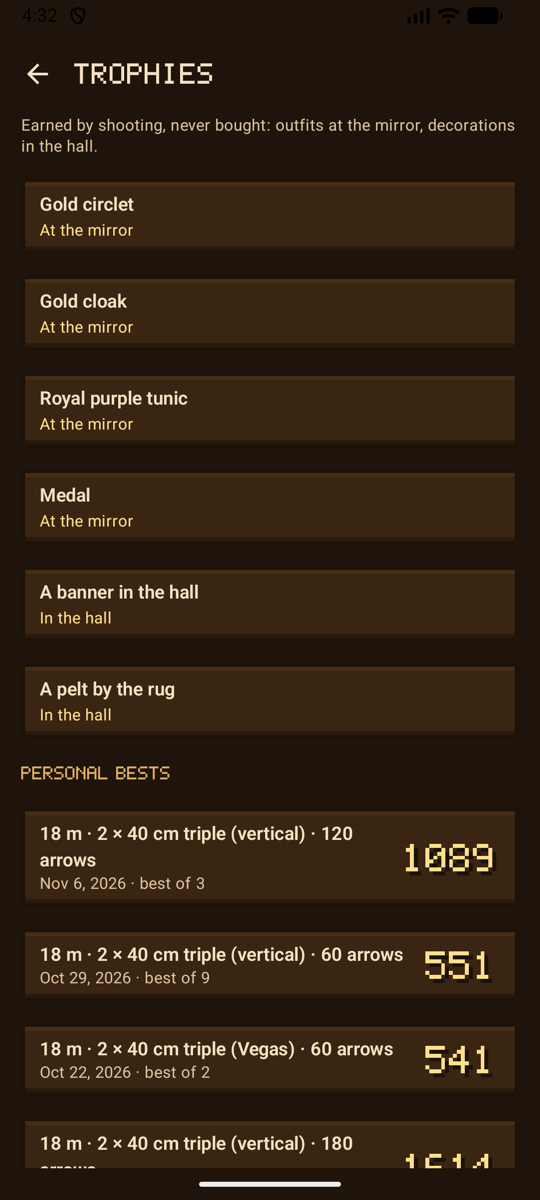
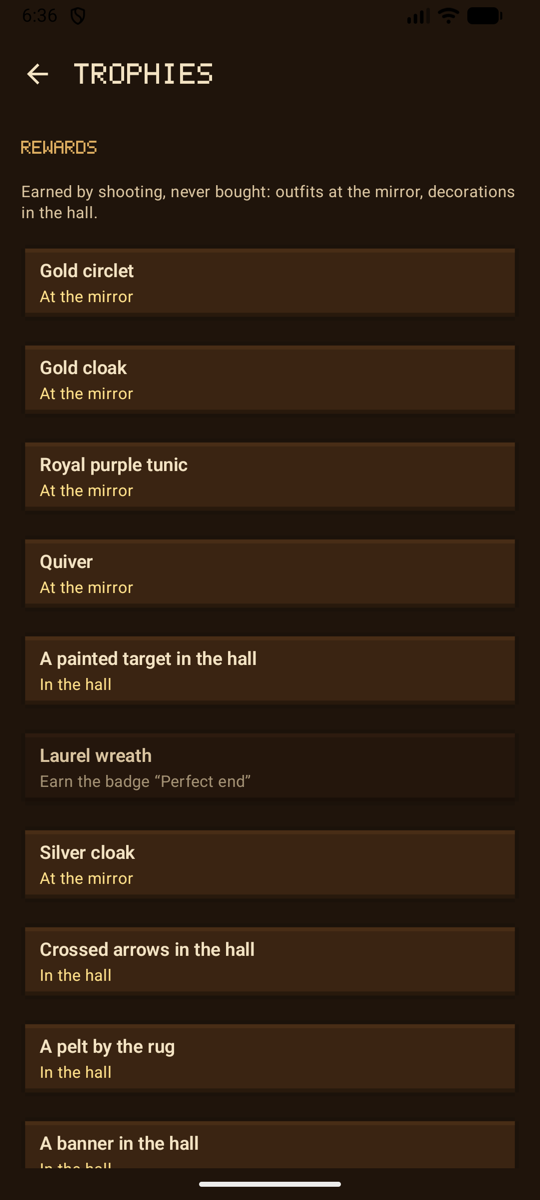
Update Ullr site from ullr@a8abf57

diff --git a/ullr/docs/game.fr.md b/ullr/docs/game.fr.md
@@ -53,7 +53,7 @@ Rendez-vous au **miroir** pour habiller votre archer. L’aperçu reste en haut 
 <figcaption><b>Le miroir.</b> Choisissez, et voyez le résultat tout de suite.</figcaption>
 </figure>
 <figure markdown>
-![Six archers vus de face, de profil et de dos : casque et barbe; toque et mantelet de fourrure; couronne de fleurs, tresses et écharpe; bandeau et amulette marteau; lunettes; et les tenues à gagner, diadème d’or, cape dorée, tunique pourpre royale et médaille.](images/game-outfits.png){ width="360" .pixel }
+![Huit archers vus de face, de profil et de dos : casque et barbe; toque et mantelet de fourrure; couronne de fleurs, tresses et écharpe; bandeau et amulette marteau; lunettes; et les tenues à gagner : diadème d’or avec tunique pourpre royale et médaille, couronne de laurier avec cape argentée, et chapeau à plume avec carquois.](images/game-outfits.png){ width="360" .pixel }
 <figcaption><b>Les tenues</b>, dessinées sous tous les angles.</figcaption>
 </figure>
 </div>
@@ -63,9 +63,9 @@ Rendez-vous au **miroir** pour habiller votre archer. L’aperçu reste en haut 
 | Peau | Cinq teintes |
 | Cheveux | Longs, courts, tresses ou capuchon, en cinq couleurs |
 | Barbe | Avec ou sans |
-| Tunique, cape, pantalon | Six, cinq et cinq couleurs, et pas de cape si vous préférez; une **tunique pourpre royale** (niveau 8) et une **cape dorée** (niveau 5) à gagner |
-| Coiffe | Casque, toque de fourrure, couronne de fleurs, bandeau; un **diadème d’or** à gagner (niveau 3) |
-| Accessoire | Mantelet de fourrure, écharpe, amulette marteau, lunettes; une **médaille** à gagner (insigne *Nouveau record*) |
+| Tunique, cape, pantalon | Six, cinq et cinq couleurs, et pas de cape si vous préférez; une **tunique pourpre royale** (niveau 8), une **cape dorée** (niveau 5) et une **cape argentée** (insigne *Dix X*) à gagner |
+| Coiffe | Casque, toque de fourrure, couronne de fleurs, bandeau; un **diadème d’or** (niveau 3), une **couronne de laurier** (insigne *Volée parfaite*) et un **chapeau à plume** (insigne *Explorateur*) à gagner |
+| Accessoire | Mantelet de fourrure, écharpe, amulette marteau, lunettes; un **carquois** (insigne *Première volée*) et une **médaille** (insigne *Nouveau record*) à gagner |
 
 ![Cinq archers de face, de profil et de dos, avec chaque coiffure (longs, courts, tresses, capuchon), cinq teintes de peau, des barbes et des couleurs de tunique et de cape différentes.](images/game-avatars.png){ width="330" .pixel }
 
@@ -77,9 +77,9 @@ Rendez-vous au **miroir** pour habiller votre archer. L’aperçu reste en haut 
 
 ## Les compagnons
 
-Choisissez un compagnon au miroir : un **chien**, un **chat**, un **renard**, ou un **corbeau** (et un autre à découvrir). Il suit le chemin parcouru par votre archer, environ un pas derrière, sans jamais traverser les meubles, et s’assoit à côté de vous quand vous vous arrêtez. Le chien, le chat et le renard trottinent et remuent la queue, et le corbeau sautille.
+Choisissez un compagnon au miroir : un **chien**, un **chat**, un **renard** ou un **corbeau**, un **hibou** une fois que vous avez tiré quatre semaines de suite, et un autre à découvrir. Il suit le chemin parcouru par votre archer, environ un pas derrière, sans jamais traverser les meubles, et s’assoit à côté de vous quand vous vous arrêtez. Le chien, le chat et le renard trottinent et remuent la queue, le corbeau sautille, et le hibou sautille et cligne de ses grands yeux.
 
-![Les quatre compagnons animaux : un chien, un chat, un renard et un corbeau.](images/game-companions.png){ width="420" .pixel }
+![Les compagnons animaux : un chien, un chat, un renard, un corbeau et un hibou.](images/game-companions.png){ width="420" .pixel }
 
 ## Niveaux, insignes et trophées
 
@@ -96,20 +96,20 @@ Seul le vrai tir rapporte : **10 points d’expérience** par volée confirmée,
 </figure>
 </div>
 
-- **Dix insignes** pour de vraies étapes, en or une fois gagnés, en gris d’ici là :
+- **Dix insignes** pour de vraies étapes, en or une fois gagnés, en gris d’ici là. Chacun rapporte aussi une [récompense](#recompenses) :
 
-| Médaille | Insigne | Comment l’obtenir |
-|:-:|--------|-------------------|
-| ![Médaille 1](images/game-medal-first-end.png){ width="36" .pixel } | **Première volée** | Confirmer votre première volée |
-| ![Médaille X](images/game-medal-first-x.png){ width="36" .pixel } | **Premier X** | Tirer un X |
-| ![Médaille 10](images/game-medal-perfect-end.png){ width="36" .pixel } | **Volée parfaite** | Toutes les flèches d’une volée dans le 10 |
-| ![Médaille XX](images/game-medal-ten-x.png){ width="36" .pixel } | **Dix X** | 10 X dans une même séance |
-| ![Médaille C](images/game-medal-arrows-100.png){ width="36" .pixel } | **100 flèches** | Tirer 100 flèches |
-| ![Médaille M](images/game-medal-arrows-1000.png){ width="36" .pixel } | **1 000 flèches** | Tirer 1 000 flèches (rapporte aussi la peau de bête dans la maison) |
-| ![Médaille S](images/game-medal-sessions-10.png){ width="36" .pixel } | **Dix séances** | Terminer 10 séances (rapporte aussi la bannière dans la maison) |
-| ![Médaille +](images/game-medal-personal-best.png){ width="36" .pixel } | **Nouveau record** | Battre votre meilleur score sur une épreuve (rapporte aussi la médaille au miroir) |
-| ![Médaille *](images/game-medal-new-discipline.png){ width="36" .pixel } | **Explorateur** | Tirer en campagne, en 3D ou en para-tir à l’arc |
-| ![Médaille 4](images/game-medal-weeks-4.png){ width="36" .pixel } | **Quatre semaines** | Tirer quatre semaines de suite |
+| Médaille | Insigne | Comment l’obtenir | Récompense |
+|:-:|--------|-------------------|------------|
+| ![Médaille 1](images/game-medal-first-end.png){ width="36" .pixel } | **Première volée** | Confirmer votre première volée | Carquois |
+| ![Médaille X](images/game-medal-first-x.png){ width="36" .pixel } | **Premier X** | Tirer un X | Cible peinte dans la maison |
+| ![Médaille 10](images/game-medal-perfect-end.png){ width="36" .pixel } | **Volée parfaite** | Toutes les flèches d’une volée dans le 10 | Couronne de laurier |
+| ![Médaille XX](images/game-medal-ten-x.png){ width="36" .pixel } | **Dix X** | 10 X dans une même séance | Cape argentée |
+| ![Médaille C](images/game-medal-arrows-100.png){ width="36" .pixel } | **100 flèches** | Tirer 100 flèches | Flèches croisées dans la maison |
+| ![Médaille M](images/game-medal-arrows-1000.png){ width="36" .pixel } | **1 000 flèches** | Tirer 1 000 flèches | Peau de bête près du tapis |
+| ![Médaille S](images/game-medal-sessions-10.png){ width="36" .pixel } | **Dix séances** | Terminer 10 séances | Bannière dans la maison |
+| ![Médaille +](images/game-medal-personal-best.png){ width="36" .pixel } | **Nouveau record** | Battre votre meilleur score sur une épreuve | Médaille |
+| ![Médaille *](images/game-medal-new-discipline.png){ width="36" .pixel } | **Explorateur** | Tirer en campagne, en 3D ou en para-tir à l’arc | Chapeau à plume |
+| ![Médaille 4](images/game-medal-weeks-4.png){ width="36" .pixel } | **Quatre semaines** | Tirer quatre semaines de suite | Hibou compagnon |
 
 ![Une médaille pas encore gagnée, en gris.](images/game-medal-locked.png){ width="36" .pixel } Une médaille pas encore gagnée reste grise. Le signe sur chaque médaille (chiffres, chiffres romains) se lit pareil en français et en anglais.
 
@@ -127,21 +127,28 @@ Ce que vous gagnez en tirant débloque des **récompenses**, listées au mur des
 | **Diadème d’or**, au miroir | Atteindre le niveau 3 |
 | **Cape dorée**, au miroir | Atteindre le niveau 5 |
 | **Tunique pourpre royale**, au miroir | Atteindre le niveau 8 |
-| **Médaille**, au miroir | Gagner l’insigne *Nouveau record* |
-| **Une bannière dans la maison**, sur le mur de gauche | Gagner l’insigne *Dix séances* |
+| **Carquois**, au miroir | Gagner l’insigne *Première volée* |
+| **Une cible peinte dans la maison**, sur le mur de gauche | Gagner l’insigne *Premier X* |
+| **Couronne de laurier**, au miroir | Gagner l’insigne *Volée parfaite* |
+| **Cape argentée**, au miroir | Gagner l’insigne *Dix X* |
+| **Des flèches croisées dans la maison**, au-dessus du miroir | Gagner l’insigne *100 flèches* |
 | **Une peau de bête près du tapis** | Gagner l’insigne *1 000 flèches* |
+| **Une bannière dans la maison**, sur le mur de gauche | Gagner l’insigne *Dix séances* |
+| **Médaille**, au miroir | Gagner l’insigne *Nouveau record* |
+| **Chapeau à plume**, au miroir | Gagner l’insigne *Explorateur* |
+| **Hibou**, un compagnon au miroir | Gagner l’insigne *Quatre semaines* |
 
 <div class="shots" markdown>
 <figure markdown>
-![La maison avec ses deux décorations : une bannière guède à cible dorée sur le mur de gauche, et une peau d’ours près du tapis.](images/screenshots/fr/game-hall-rewards.png){ .shot }
-<figcaption>La bannière et la peau de bête, gagnées.</figcaption>
+![La maison avec ses quatre décorations : une bannière guède et une cible peinte sur le mur de gauche, des flèches croisées au-dessus du miroir, et une peau d’ours près du tapis.](images/screenshots/fr/game-hall-rewards.png){ .shot }
+<figcaption>Toutes les décorations, gagnées.</figcaption>
 </figure>
 <figure markdown>
-![Les récompenses au mur des trophées : diadème d’or, cape dorée, tunique pourpre royale et médaille au miroir; une bannière et une peau de bête dans la maison.](images/screenshots/fr/game-rewards.png){ .shot }
+![Les récompenses au mur des trophées : diadème d’or, cape dorée, tunique pourpre royale, carquois, cible peinte, cape argentée, flèches croisées, peau de bête et bannière gagnés; la couronne de laurier encore à gagner, avec son insigne.](images/screenshots/fr/game-rewards.png){ .shot }
 <figcaption><b>Récompenses</b>, au mur des trophées.</figcaption>
 </figure>
 <figure markdown>
-![Au miroir, À gagner : diadème d’or au niveau 3, cape dorée au niveau 5, tunique pourpre royale au niveau 8, médaille avec l’insigne Nouveau record.](images/screenshots/fr/game-earn.png){ .shot }
+![Au miroir, À gagner : couronne de laurier avec l’insigne Volée parfaite, chapeau à plume avec l’insigne Explorateur.](images/screenshots/fr/game-earn.png){ .shot }
 <figcaption><b>À gagner</b>, au miroir.</figcaption>
 </figure>
 </div>

diff --git a/ullr/docs/game.md b/ullr/docs/game.md
@@ -53,7 +53,7 @@ Walk to the **mirror** to dress your archer. The preview stays at the top while 
 <figcaption><b>The mirror.</b> Pick, and see it at once.</figcaption>
 </figure>
 <figure markdown>
-![Six archers seen from the front, the side and the back: a helmet and beard; a fur hat and fur mantle; a flower crown with braids and a scarf; a headband with a hammer amulet; glasses; and the outfits to earn, gold circlet, gold cloak, royal purple tunic and medal.](images/game-outfits.png){ width="360" .pixel }
+![Eight archers seen from the front, the side and the back: a helmet and beard; a fur hat and fur mantle; a flower crown with braids and a scarf; a headband with a hammer amulet; glasses; and the outfits to earn: a gold circlet with a royal purple tunic and a medal, a laurel wreath with a silver cloak, and a feathered hat with a quiver.](images/game-outfits.png){ width="360" .pixel }
 <figcaption><b>Outfits</b>, drawn from every side.</figcaption>
 </figure>
 </div>
@@ -63,9 +63,9 @@ Walk to the **mirror** to dress your archer. The preview stays at the top while 
 | Skin | Five tones |
 | Hair | Long, short, braids or a hood, in five colours |
 | Beard | With or without |
-| Tunic, cloak, trousers | Six, five and five colours, and no cloak if you prefer; a **royal purple tunic** (level 8) and a **gold cloak** (level 5) to earn |
-| Headwear | Helmet, fur hat, flower crown, headband; a **gold circlet** to earn (level 3) |
-| Accessory | Fur mantle, scarf, hammer amulet, glasses; a **medal** to earn (badge *New record*) |
+| Tunic, cloak, trousers | Six, five and five colours, and no cloak if you prefer; a **royal purple tunic** (level 8), a **gold cloak** (level 5) and a **silver cloak** (badge *Ten X*) to earn |
+| Headwear | Helmet, fur hat, flower crown, headband; a **gold circlet** (level 3), a **laurel wreath** (badge *Perfect end*) and a **feathered hat** (badge *Explorer*) to earn |
+| Accessory | Fur mantle, scarf, hammer amulet, glasses; a **quiver** (badge *First end*) and a **medal** (badge *New record*) to earn |
 
 ![Five archers from the front, side and back, with each hair style (long, short, braids, hood), five skin tones, beards and different tunic and cloak colours.](images/game-avatars.png){ width="330" .pixel }
 
@@ -77,9 +77,9 @@ Walk to the **mirror** to dress your archer. The preview stays at the top while 
 
 ## Companions
 
-Choose a companion at the mirror: a **dog**, a **cat**, a **fox**, or a **raven** (and one more to discover). It follows the path your archer walked, about a step behind, so it never cuts through the furniture, and sits beside you when you stop. The dog, cat and fox trot and wag their tails, and the raven hops.
+Choose a companion at the mirror: a **dog**, a **cat**, a **fox** or a **raven**, an **owl** once you've shot four weeks in a row, and one more to discover. It follows the path your archer walked, about a step behind, so it never cuts through the furniture, and sits beside you when you stop. The dog, cat and fox trot and wag their tails, the raven hops, and the owl hops and blinks its big eyes.
 
-![The four animal companions: a dog, a cat, a fox and a raven.](images/game-companions.png){ width="420" .pixel }
+![The animal companions: a dog, a cat, a fox, a raven and an owl.](images/game-companions.png){ width="420" .pixel }
 
 ## Levels, badges and trophies
 
@@ -96,20 +96,20 @@ Only real shooting earns anything: **10 experience** for each confirmed end, **3
 </figure>
 </div>
 
-- **Ten badges** for real milestones, gold once earned and grey until then:
+- **Ten badges** for real milestones, gold once earned and grey until then. Each one also earns a [reward](#rewards):
 
-| Medal | Badge | How to earn it |
-|:-:|-------|----------------|
-| ![Medal 1](images/game-medal-first-end.png){ width="36" .pixel } | **First end** | Confirm your first end |
-| ![Medal X](images/game-medal-first-x.png){ width="36" .pixel } | **First X** | Shoot an X |
-| ![Medal 10](images/game-medal-perfect-end.png){ width="36" .pixel } | **Perfect end** | Every arrow of an end in the 10 |
-| ![Medal XX](images/game-medal-ten-x.png){ width="36" .pixel } | **Ten X** | 10 X in one session |
-| ![Medal C](images/game-medal-arrows-100.png){ width="36" .pixel } | **100 arrows** | Shoot 100 arrows |
-| ![Medal M](images/game-medal-arrows-1000.png){ width="36" .pixel } | **1,000 arrows** | Shoot 1,000 arrows (also earns the pelt in the hall) |
-| ![Medal S](images/game-medal-sessions-10.png){ width="36" .pixel } | **Ten sessions** | Finish 10 sessions (also earns the banner in the hall) |
-| ![Medal +](images/game-medal-personal-best.png){ width="36" .pixel } | **New record** | Beat your best score on a round (also earns the medal at the mirror) |
-| ![Medal *](images/game-medal-new-discipline.png){ width="36" .pixel } | **Explorer** | Shoot field, 3D or para archery |
-| ![Medal 4](images/game-medal-weeks-4.png){ width="36" .pixel } | **Four weeks** | Shoot four weeks in a row |
+| Medal | Badge | How to earn it | Reward |
+|:-:|-------|----------------|--------|
+| ![Medal 1](images/game-medal-first-end.png){ width="36" .pixel } | **First end** | Confirm your first end | Quiver |
+| ![Medal X](images/game-medal-first-x.png){ width="36" .pixel } | **First X** | Shoot an X | Painted target in the hall |
+| ![Medal 10](images/game-medal-perfect-end.png){ width="36" .pixel } | **Perfect end** | Every arrow of an end in the 10 | Laurel wreath |
+| ![Medal XX](images/game-medal-ten-x.png){ width="36" .pixel } | **Ten X** | 10 X in one session | Silver cloak |
+| ![Medal C](images/game-medal-arrows-100.png){ width="36" .pixel } | **100 arrows** | Shoot 100 arrows | Crossed arrows in the hall |
+| ![Medal M](images/game-medal-arrows-1000.png){ width="36" .pixel } | **1,000 arrows** | Shoot 1,000 arrows | Pelt by the rug |
+| ![Medal S](images/game-medal-sessions-10.png){ width="36" .pixel } | **Ten sessions** | Finish 10 sessions | Banner in the hall |
+| ![Medal +](images/game-medal-personal-best.png){ width="36" .pixel } | **New record** | Beat your best score on a round | Medal |
+| ![Medal *](images/game-medal-new-discipline.png){ width="36" .pixel } | **Explorer** | Shoot field, 3D or para archery | Feathered hat |
+| ![Medal 4](images/game-medal-weeks-4.png){ width="36" .pixel } | **Four weeks** | Shoot four weeks in a row | Owl companion |
 
 ![A medal not earned yet, in grey.](images/game-medal-locked.png){ width="36" .pixel } A medal not earned yet stays grey. The mark on each medal (numbers, Roman numerals) reads the same in English and French.
 
@@ -127,21 +127,28 @@ What you earn by shooting unlocks **rewards**, listed at the trophy wall. Nothin
 | **Gold circlet**, at the mirror | Reach level 3 |
 | **Gold cloak**, at the mirror | Reach level 5 |
 | **Royal purple tunic**, at the mirror | Reach level 8 |
-| **Medal**, at the mirror | Earn the badge *New record* |
-| **A banner in the hall**, on the left wall | Earn the badge *Ten sessions* |
+| **Quiver**, at the mirror | Earn the badge *First end* |
+| **A painted target in the hall**, on the left wall | Earn the badge *First X* |
+| **Laurel wreath**, at the mirror | Earn the badge *Perfect end* |
+| **Silver cloak**, at the mirror | Earn the badge *Ten X* |
+| **Crossed arrows in the hall**, above the mirror | Earn the badge *100 arrows* |
 | **A pelt by the rug** | Earn the badge *1,000 arrows* |
+| **A banner in the hall**, on the left wall | Earn the badge *Ten sessions* |
+| **Medal**, at the mirror | Earn the badge *New record* |
+| **Feathered hat**, at the mirror | Earn the badge *Explorer* |
+| **Owl**, a companion at the mirror | Earn the badge *Four weeks* |
 
 <div class="shots" markdown>
 <figure markdown>
-![The hall with both decorations: a woad banner with a gold target on the left wall, and a bear pelt beside the rug.](images/screenshots/game-hall-rewards.png){ .shot }
-<figcaption>The banner and the pelt, earned.</figcaption>
+![The hall with all four decorations: a woad banner and a painted target on the left wall, crossed arrows above the mirror, and a bear pelt beside the rug.](images/screenshots/game-hall-rewards.png){ .shot }
+<figcaption>Every decoration, earned.</figcaption>
 </figure>
 <figure markdown>
-![The trophy wall's rewards: gold circlet, gold cloak, royal purple tunic and medal at the mirror; a banner and a pelt in the hall.](images/screenshots/game-rewards.png){ .shot }
+![The trophy wall's rewards: gold circlet, gold cloak, royal purple tunic, quiver, painted target, silver cloak, crossed arrows, pelt and banner earned; laurel wreath still to earn, with its badge.](images/screenshots/game-rewards.png){ .shot }
 <figcaption><b>Rewards</b>, at the trophy wall.</figcaption>
 </figure>
 <figure markdown>
-![At the mirror, To earn: gold circlet at level 3, gold cloak at level 5, royal purple tunic at level 8, medal with the New record badge.](images/screenshots/game-earn.png){ .shot }
+![At the mirror, To earn: laurel wreath with the Perfect end badge, feathered hat with the Explorer badge.](images/screenshots/game-earn.png){ .shot }
 <figcaption><b>To earn</b>, at the mirror.</figcaption>
 </figure>
 </div>

diff --git a/ullr/docs/screenshots.fr.md b/ullr/docs/screenshots.fr.md
@@ -163,8 +163,8 @@ Prises avec **Ullr Demo**, une version de l'application remplie de six mois de s
 <figcaption><b>Les réglages, regroupés par thème.</b></figcaption>
 </figure>
 <figure markdown>
-![La maison avec une bannière sur le mur de gauche et une peau d’ours près du tapis, toutes deux gagnées.](images/screenshots/fr/game-hall-rewards.png){ .shot }
-<figcaption><b>Décorations gagnées.</b> Une bannière et une peau de bête.</figcaption>
+![La maison avec une bannière et une cible peinte sur le mur de gauche, des flèches croisées au-dessus du miroir et une peau d’ours près du tapis, toutes gagnées.](images/screenshots/fr/game-hall-rewards.png){ .shot }
+<figcaption><b>Décorations gagnées.</b> Une bannière, une cible peinte, des flèches croisées et une peau de bête.</figcaption>
 </figure>
 <figure markdown>
 ![Les récompenses au mur des trophées : des tenues au miroir, des décorations dans la maison.](images/screenshots/fr/game-rewards.png){ .shot }

diff --git a/ullr/docs/roadmap.fr.md b/ullr/docs/roadmap.fr.md
@@ -26,7 +26,7 @@ Ullr est un projet personnel, construit au grand jour. Voici où il en est.
 
 ## À venir
 
-- [x] **Mode jeu :** des tenues et des décorations gagnées par les niveaux et les insignes, un cor de guerre pour un record personnel, et le pas de tir aux quatre saisons
+- [x] **Mode jeu :** des tenues et des décorations gagnées par les niveaux et les insignes, une récompense pour chaque insigne (un carquois, une couronne de laurier, une cape argentée, un chapeau à plume, un hibou compagnon, une cible peinte et des flèches croisées), un cor de guerre pour un record personnel, et le pas de tir aux quatre saisons
 
 - [x] **Vos données, à votre façon :** export (tout, les données seules ou les photos seules) vers le dossier de votre choix, restauration sur le même téléphone ou un nouveau, et libérer de la place en retirant les anciennes photos
 - [x] Partager le résumé d’une séance, en texte ou avec une image de la feuille de marque

diff --git a/ullr/docs/screenshots.md b/ullr/docs/screenshots.md
@@ -163,8 +163,8 @@ Taken with **Ullr Demo**, a version of the app filled with six months of made-up
 <figcaption><b>Settings, grouped by topic.</b></figcaption>
 </figure>
 <figure markdown>
-![The hall with a banner on the left wall and a bear pelt by the rug, both earned.](images/screenshots/game-hall-rewards.png){ .shot }
-<figcaption><b>Decorations, earned.</b> A banner and a pelt.</figcaption>
+![The hall with a banner and a painted target on the left wall, crossed arrows above the mirror and a bear pelt by the rug, all earned.](images/screenshots/game-hall-rewards.png){ .shot }
+<figcaption><b>Decorations, earned.</b> A banner, a painted target, crossed arrows and a pelt.</figcaption>
 </figure>
 <figure markdown>
 ![The trophy wall's rewards: outfits at the mirror, decorations in the hall.](images/screenshots/game-rewards.png){ .shot }

diff --git a/ullr/docs/roadmap.md b/ullr/docs/roadmap.md
@@ -26,7 +26,7 @@ Ullr is a personal project, built in the open. Here's where it stands.
 
 ## Coming
 
-- [x] **Game mode:** outfits and hall decorations earned by levels and badges, a war horn for a personal best, and the range in four seasons
+- [x] **Game mode:** outfits and hall decorations earned by levels and badges, a reward for every badge (a quiver, a laurel wreath, a silver cloak, a feathered hat, an owl companion, a painted target and crossed arrows), a war horn for a personal best, and the range in four seasons
 
 - [x] **Your data, your way:** export (everything, records only, or photos only) to a folder you choose, restore on the same or a new phone, and free up space by removing old photos
 - [x] Share a session summary, as text or with a picture of the scoresheet
